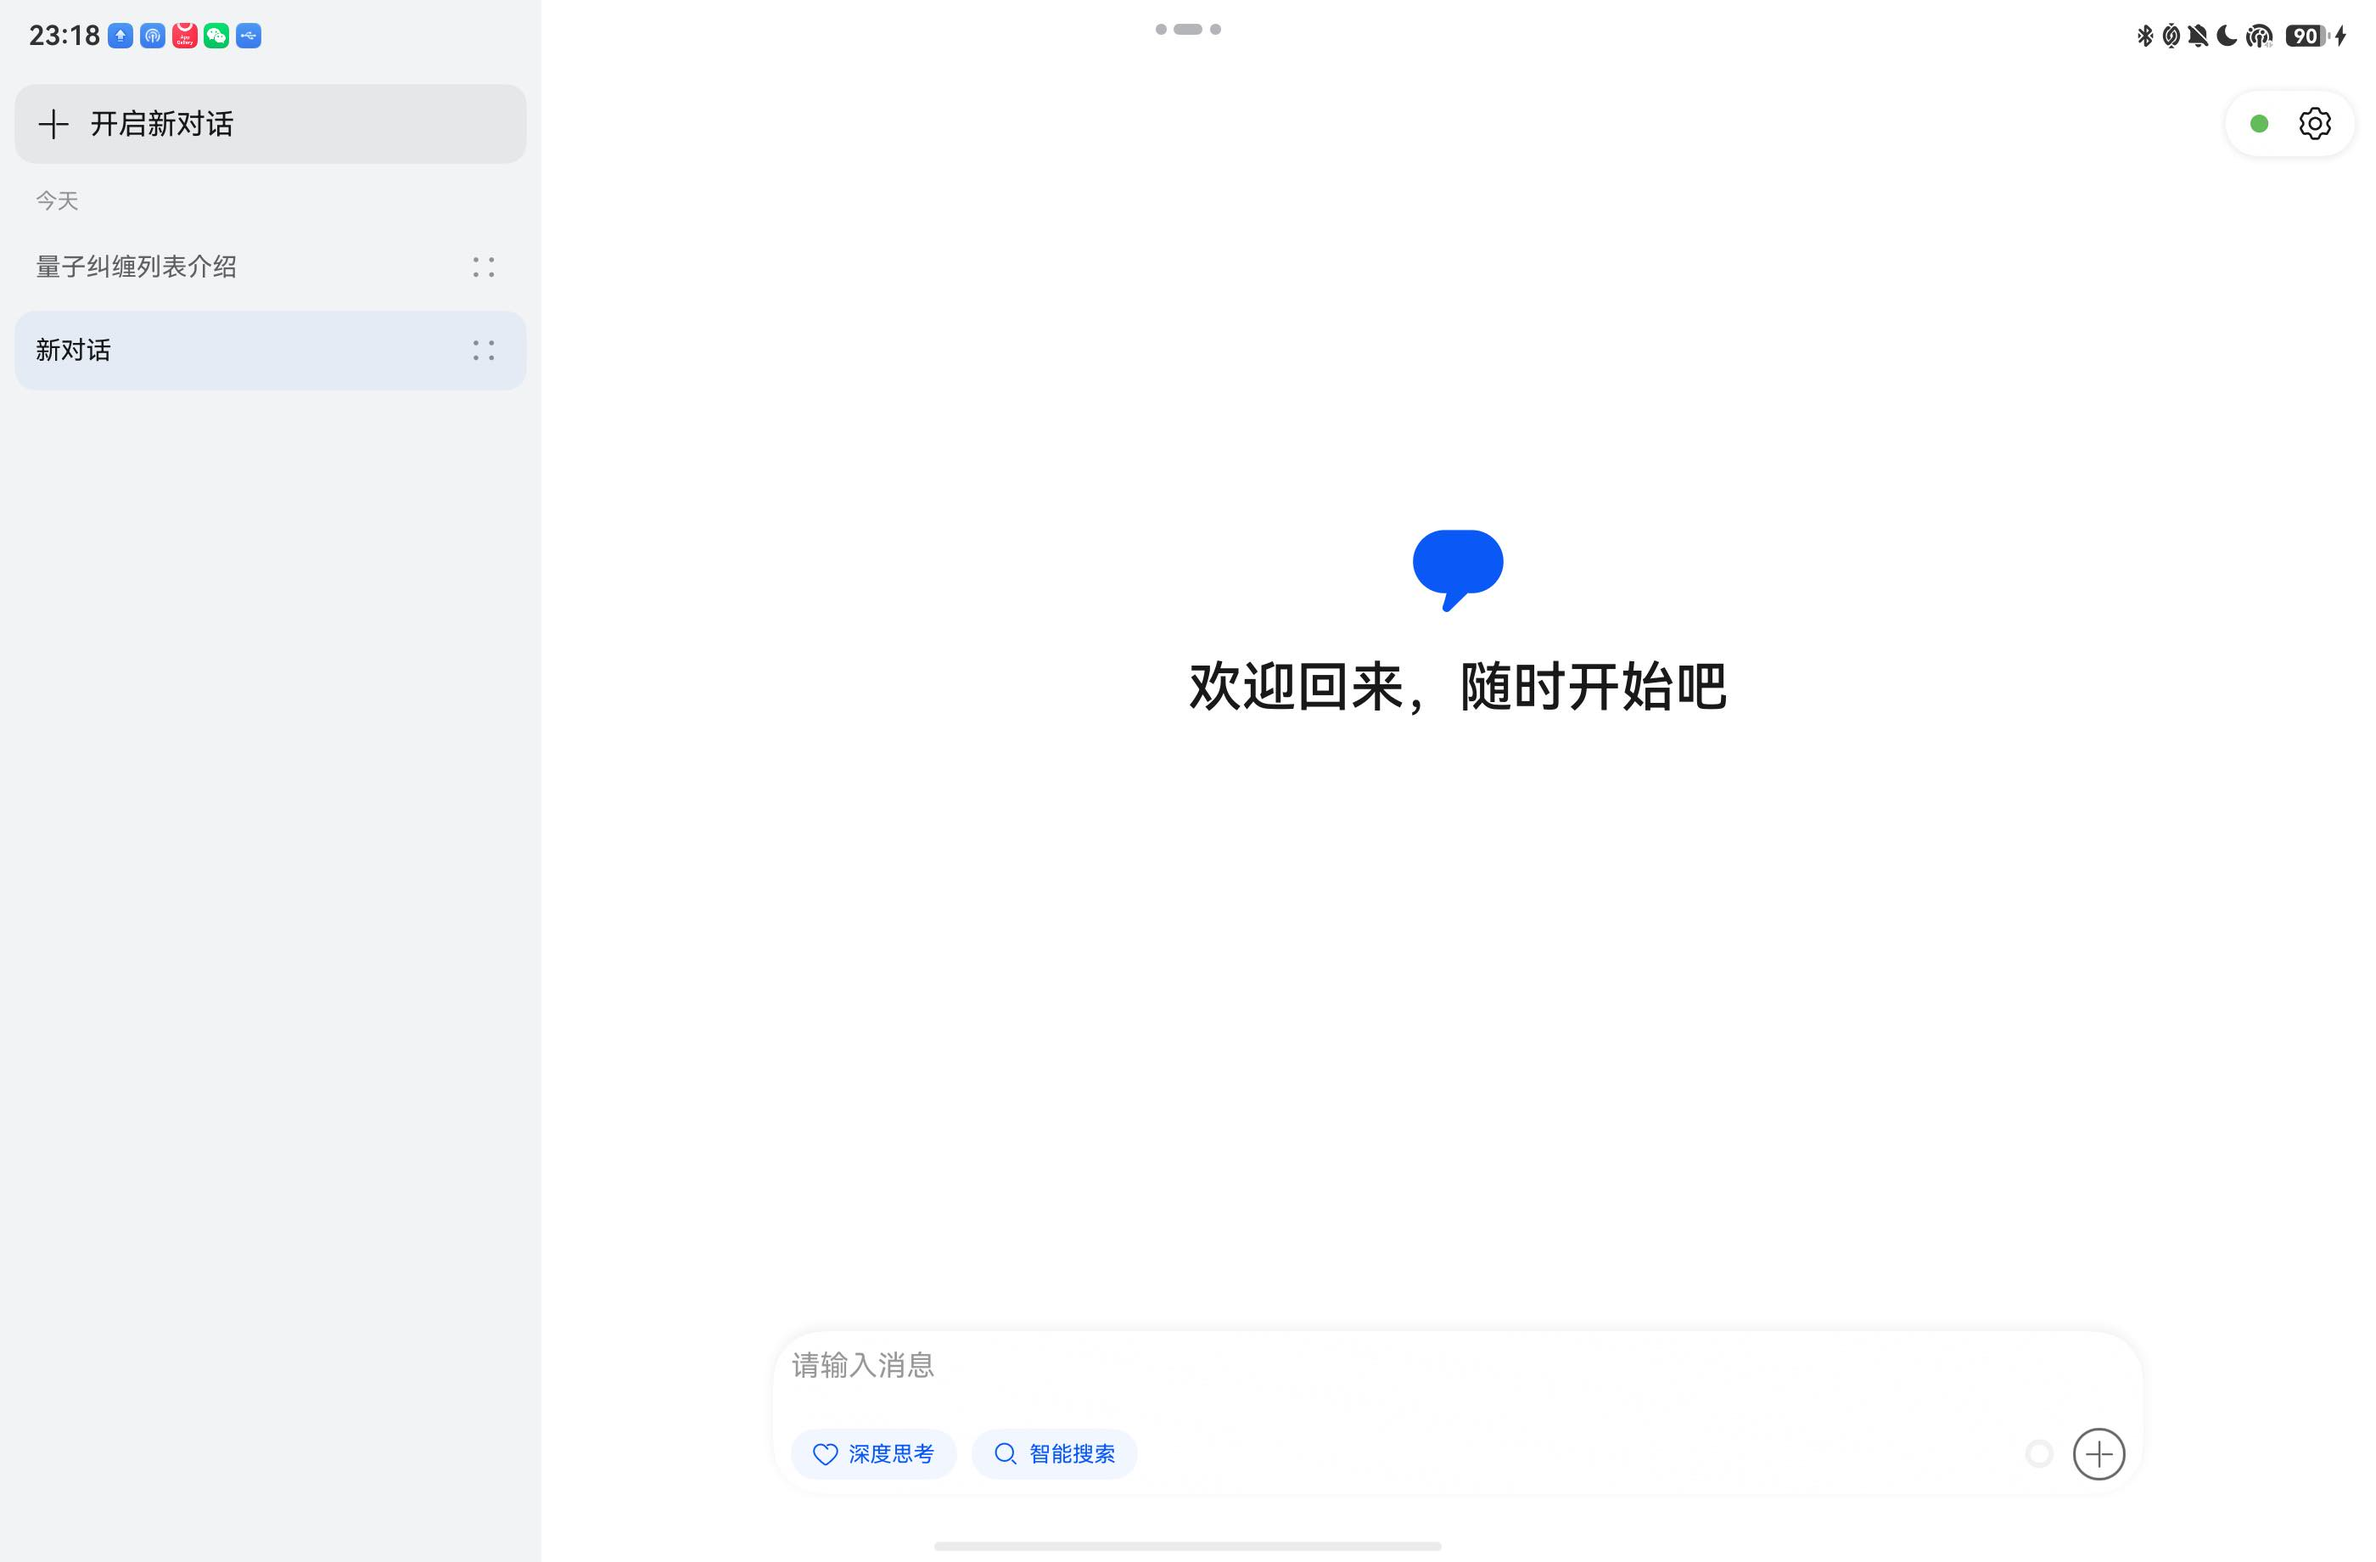
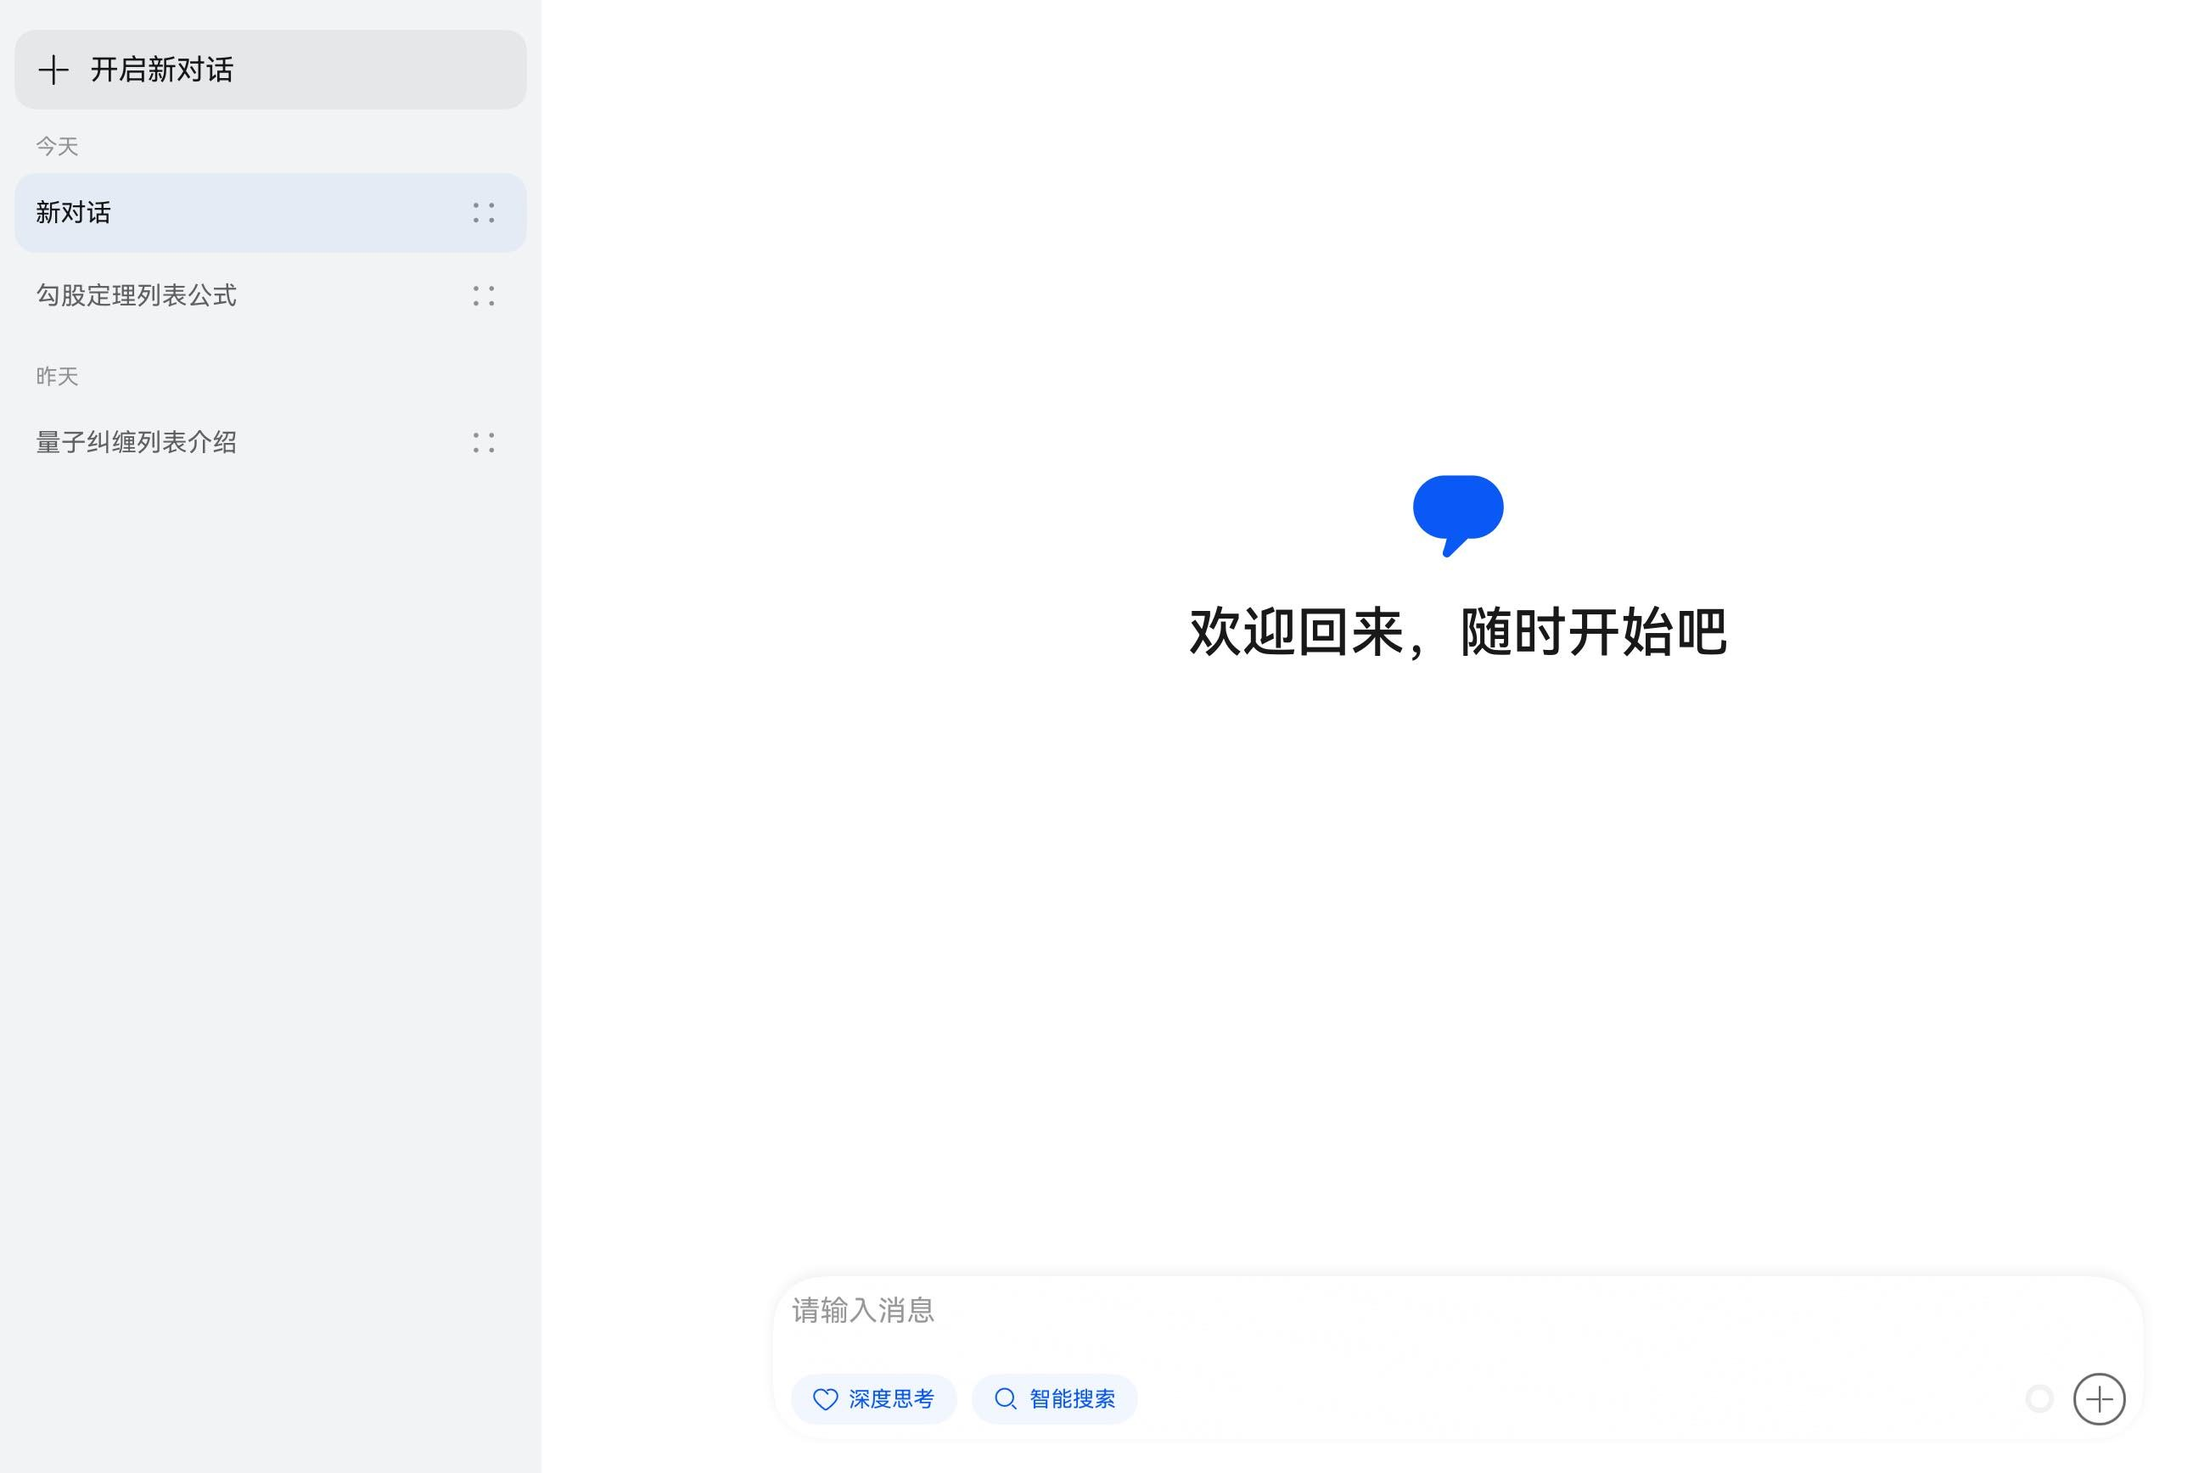
fix: 平板截图适配 AGC 3:2 规格（2604×1736 无状态栏）——重装新构建后重拍 01-03（公式块渲染+思考展开态）

diff --git a/store/listing.md b/store/listing.md
@@ -80,10 +80,14 @@
 
 ## 应用介绍截图（必填，已实拍于 store/）
 
+> 平板 7 张已裁 **3:2（2604×1736）**，无状态栏、无手势条，符合 AGC 平板要求：
+> 3~10 张、最低 1920×1280（比例 3:2）、JPG ≤5MB（实为 115–349KB）。
+> 手机 5 张为 **9:16（1314×2336）**，见下表。
+
 | 文件 | 内容 | 用途 |
 |---|---|---|
 | 01_home.jpeg | 宽屏双栏主页欢迎态 | 平板截图 1 |
-| 02_chat_markdown.jpeg | 流式回复：Markdown 列表 + LaTeX 公式 + AI 标识 | 平板截图 2 |
+| 02_chat_markdown.jpeg | 流式回复：Markdown 列表 + LaTeX 公式块 + AI 标识 | 平板截图 2 |
 | 03_thinking.jpeg | 深度思考过程展开 | 平板截图 3 |
 | 04_attach.jpeg | 附件面板（拍照/相册/文件） | 平板截图 4 |
 | 05_settings.jpeg | 设置页 | 平板截图 5 |
